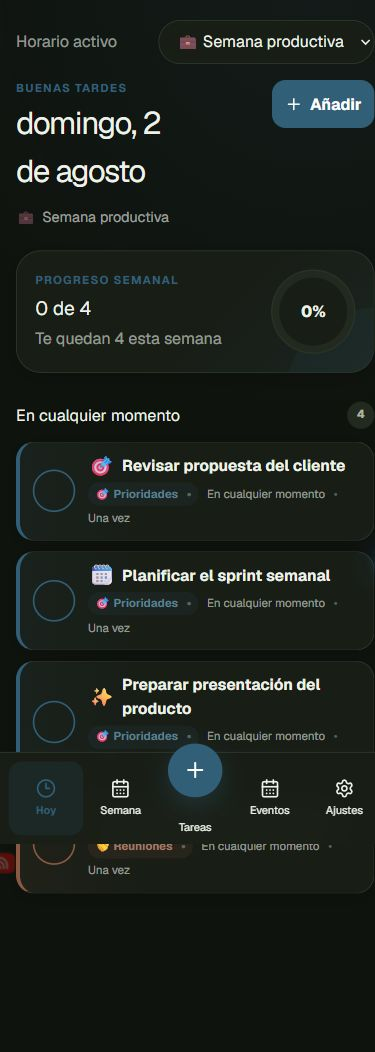
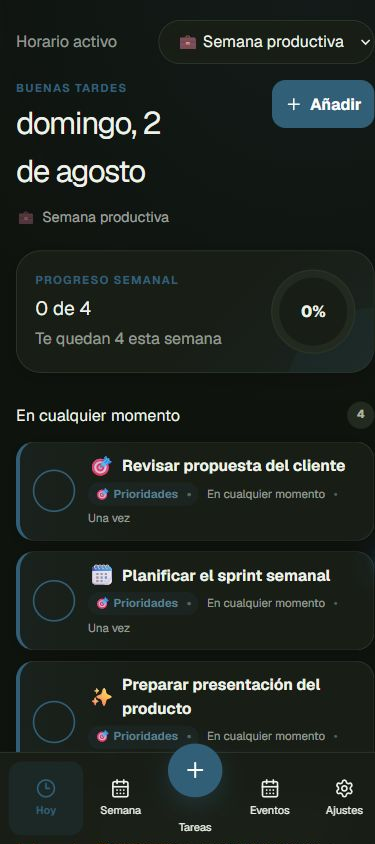
fix(ui): pin mobile navigation to viewport

diff --git a/e2e/app.spec.ts b/e2e/app.spec.ts
@@ -77,3 +77,23 @@ test("demo disables real account actions", async ({ page }) => {
     page.getByRole("button", { name: /eliminar cuenta/i }),
   ).toHaveCount(0);
 });
+
+test("mobile navigation stays pinned above scrollable content", async ({
+  page,
+}) => {
+  await page.setViewportSize({ width: 390, height: 844 });
+  await page.goto("/es/demo/today");
+  const navigation = page.locator(".mobile-nav");
+  await expect(navigation).toBeVisible();
+  const box = await navigation.boundingBox();
+  expect(box).not.toBeNull();
+  expect(
+    Math.abs((box?.y ?? 0) + (box?.height ?? 0) - 844),
+  ).toBeLessThanOrEqual(1);
+  const bottomPadding = await page
+    .locator("main")
+    .evaluate((element) =>
+      Number.parseFloat(getComputedStyle(element).paddingBottom),
+    );
+  expect(bottomPadding).toBeGreaterThanOrEqual(box?.height ?? 0);
+});

diff --git a/src/app/globals.css b/src/app/globals.css
@@ -161,12 +161,13 @@ textarea:focus-visible {
 .app-shell {
   display: grid;
   min-height: 100vh;
+  min-height: 100dvh;
 }
 .sidebar {
   display: none;
 }
 .main {
-  padding: 1.25rem 1rem 7rem;
+  padding: 1.25rem 1rem calc(7rem + env(safe-area-inset-bottom));
   max-width: 1000px;
   width: 100%;
   margin: auto;
